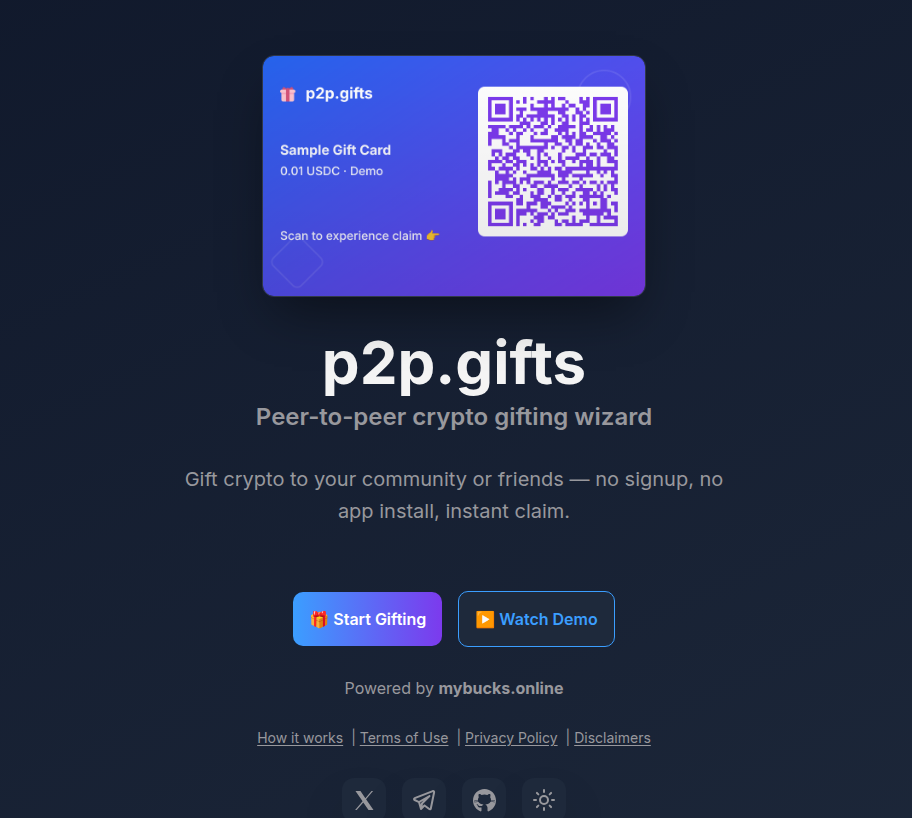
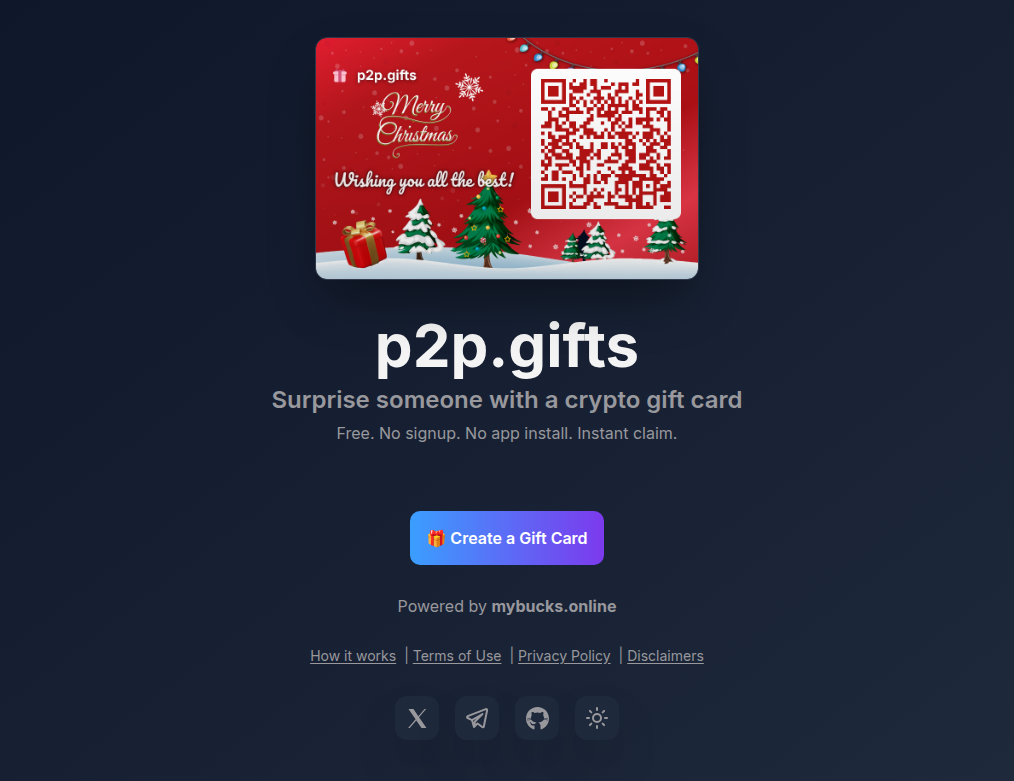
Clarify gifting copy and improve Proceed button visibility (#51)
* update page titles and texts

* bump version 1.4.6

diff --git a/src/components/Button.tsx b/src/components/Button.tsx
@@ -54,7 +54,8 @@ const Button = styled.button<ButtonProps>`
               border: none;
             `
           : css`
-              background: linear-gradient(
+              background-color: ${({ theme }) => theme.colors.primary};
+              background-image: linear-gradient(
                 to right,
                 ${({ theme }) => theme.colors.primary},
                 ${({ theme }) => theme.colors.accent}
@@ -66,7 +67,9 @@ const Button = styled.button<ButtonProps>`
                 background 0.2s ease;
 
               &:hover:not(:disabled) {
-                background: linear-gradient(
+                background-color: ${({ theme }) =>
+                  theme.colors.primaryHoverFrom};
+                background-image: linear-gradient(
                   to right,
                   ${({ theme }) => theme.colors.primaryHoverFrom},
                   ${({ theme }) => theme.colors.primaryHoverTo}

diff --git a/src/pages/Welcome/index.tsx b/src/pages/Welcome/index.tsx
@@ -207,7 +207,7 @@ const Welcome = () => {
           </HeroWrap>
           <TitleBlock>
             <Title>p2p.gifts</Title>
-            <Tagline>Peer-to-peer crypto gifting wizard</Tagline>
+            <Tagline>Surprise someone with a crypto gift card</Tagline>
             <ValueText>
               Free. No signup. No app install. Instant claim.
             </ValueText>

diff --git a/src/pages/CreateWallet/index.tsx b/src/pages/CreateWallet/index.tsx
@@ -225,7 +225,7 @@ const CreateWallet = () => {
         <Header>
           <WizardStepTitle step={1}>Secure Your Gift Wallet</WizardStepTitle>
           <WizardStepSummary>
-            Auto-generated for security. No need to remember.
+            Auto-generated for security. No backup required.
           </WizardStepSummary>
         </Header>
 

diff --git a/src/pages/Fund/index.tsx b/src/pages/Fund/index.tsx
@@ -244,6 +244,8 @@ const Fund = () => {
         </InfoCallout>
 
         <Button
+          type="button"
+          $variant="primary"
           onClick={proceedToGiftCard}
           $size="block"
           data-umami-event="proceed-to-gift-card"
